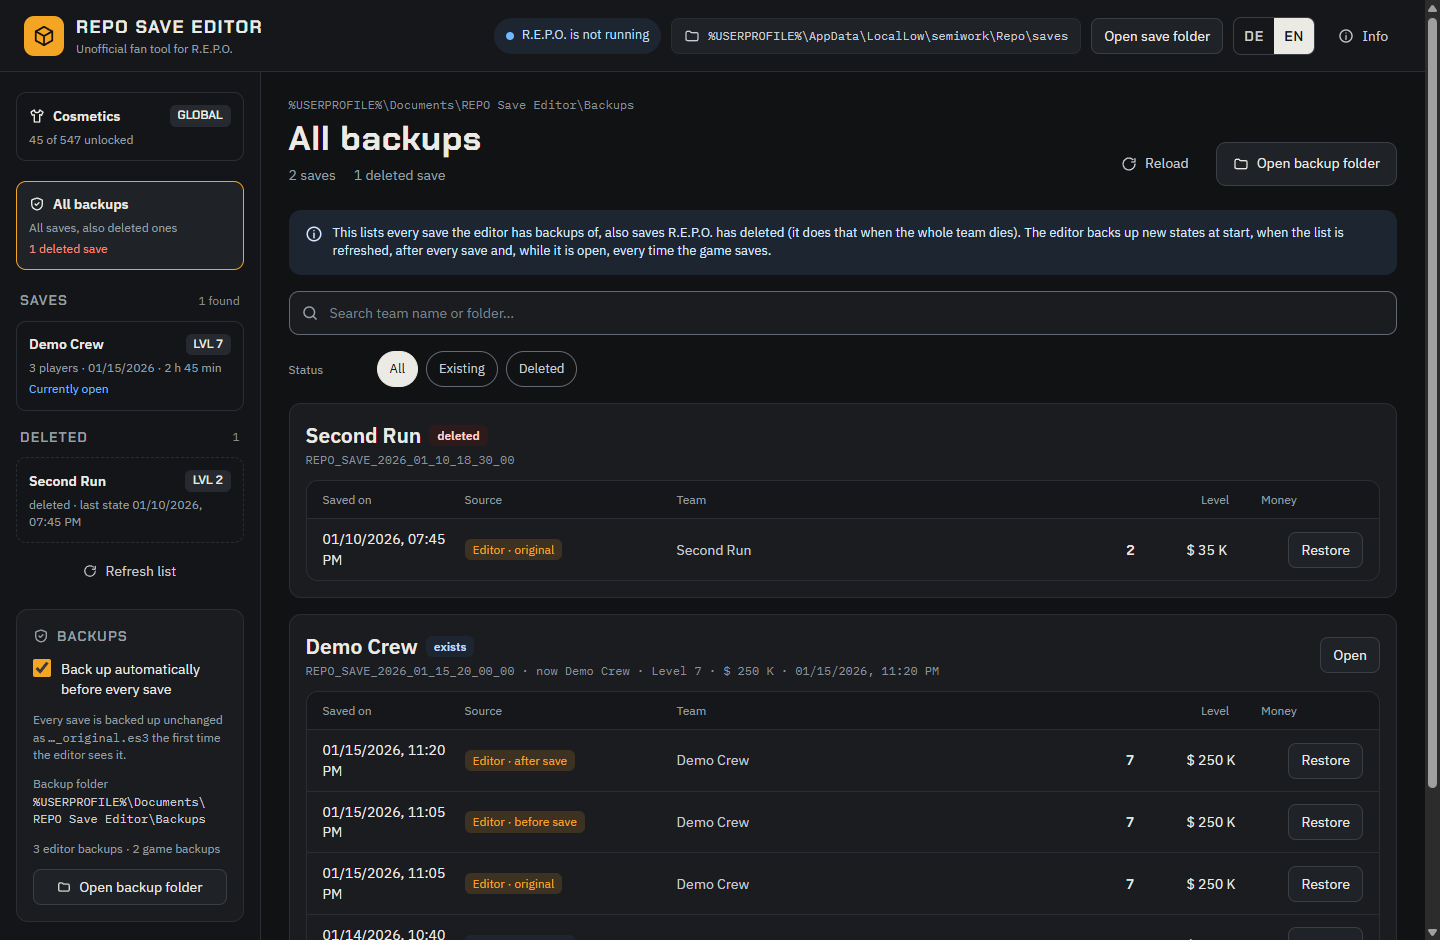
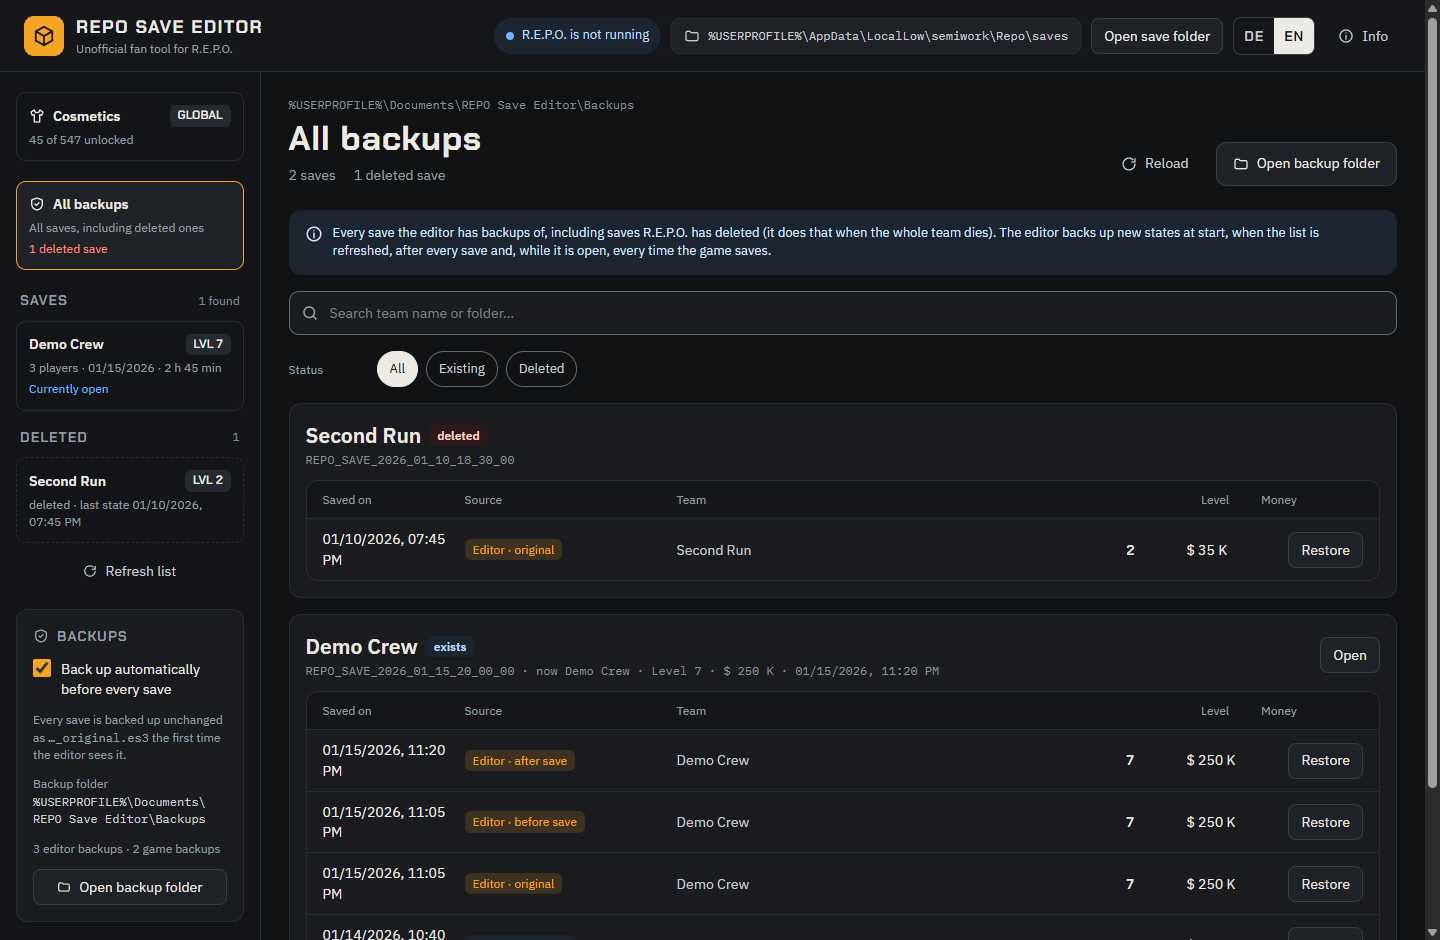
REPO Save Editor 1.1.1
Clearer wording in the new backup texts, mainly in English.

Changed region(s): [[0.25, 0.216, 0.9062, 0.2777], [0.0625, 0.216, 0.125, 0.2468]]

diff --git a/public/index.html b/public/index.html
@@ -405,14 +405,14 @@ const TEXTS = {
   'side.none': ['Keine Spielstände gefunden.', 'No saves found.'],
   'side.refresh': ['Liste aktualisieren', 'Refresh list'],
   'side.allBackups': ['Alle Backups', 'All backups'],
-  'side.allBackupsLine': ['Alle Spielstände, auch gelöschte', 'All saves, also deleted ones'],
+  'side.allBackupsLine': ['Alle Spielstände, auch gelöschte', 'All saves, including deleted ones'],
   'side.deleted': ['Gelöscht', 'Deleted'],
   'side.deletedLine': ['gelöscht · letzter Stand {date}', 'deleted · last state {date}'],
   'n.saveGroup': [['{n} Spielstand', '{n} Spielstände'], ['{n} save', '{n} saves']],
   'n.deletedSave': [['{n} gelöschter Spielstand', '{n} gelöschte Spielstände'], ['{n} deleted save', '{n} deleted saves']],
   'all.title': ['Alle Backups', 'All backups'],
   'all.intro': ['Hier stehen alle Spielstände, von denen der Editor Backups hat, auch solche, die R.E.P.O. gelöscht hat (das passiert, wenn das ganze Team stirbt). Neue Stände sichert der Editor beim Start, beim Aktualisieren der Liste, nach jedem Speichern und, solange er offen ist, jedes Mal, wenn das Spiel speichert.',
-    'This lists every save the editor has backups of, also saves R.E.P.O. has deleted (it does that when the whole team dies). The editor backs up new states at start, when the list is refreshed, after every save and, while it is open, every time the game saves.'],
+    'Every save the editor has backups of, including saves R.E.P.O. has deleted (it does that when the whole team dies). The editor backs up new states at start, when the list is refreshed, after every save and, while it is open, every time the game saves.'],
   'all.search': ['Teamname oder Ordner suchen …', 'Search team name or folder…'],
   'all.searchLabel': ['Spielstände durchsuchen', 'Search saves'],
   'all.showExisting': ['Vorhanden', 'Existing'],
@@ -430,10 +430,10 @@ const TEXTS = {
   'all.open': ['Öffnen', 'Open'],
   'all.unnamed': ['(ohne Namen)', '(no name)'],
   'dlg.undelete.title': ['Gelöschten Spielstand wiederherstellen?', 'Restore the deleted save?'],
-  'dlg.undelete.lead': ['„{team}“ wird mit diesem Stand neu angelegt und erscheint wieder in der Liste und im Spiel.', '"{team}" is created again with this state and shows up in the list and in the game again.'],
+  'dlg.undelete.lead': ['„{team}“ wird mit diesem Stand neu angelegt und erscheint wieder in der Liste und im Spiel.', '"{team}" is created from this backup and shows up in the list and in the game again.'],
   'msg.undeleted': ['Wiederhergestellt: {team}', 'Restored: {team}'],
   'msg.openDeleted': ['R.E.P.O. hat den geöffneten Spielstand gelöscht. Unter „Alle Backups“ lässt er sich wiederherstellen.', 'R.E.P.O. has deleted the open save. You can restore it under "All backups".'],
-  'msg.listSnapshots': [['Liste aktualisiert. Neuer Stand gesichert: {n} Spielstand.', 'Liste aktualisiert. Neuer Stand gesichert: {n} Spielstände.'], ['List refreshed. New state backed up: {n} save.', 'List refreshed. New state backed up: {n} saves.']],
+  'msg.listSnapshots': [['Liste aktualisiert. Neuer Stand gesichert: {n} Spielstand.', 'Liste aktualisiert. Neue Stände gesichert: {n} Spielstände.'], ['List refreshed. New state backed up: {n} save.', 'List refreshed. New states backed up: {n} saves.']],
   'side.opened': ['Geöffnet', 'Currently open'],
   'side.error': ['Fehler: {error}', 'Error: {error}'],
   'side.cosUnlocked': ['{n} von {total} freigeschaltet', '{n} of {total} unlocked'],

diff --git a/lib/messages.js b/lib/messages.js
@@ -88,7 +88,7 @@ const MESSAGES = {
     'input.oneCrown': 'Only one player can have the crown.',
     'input.itemName': 'Invalid item name: {name}',
     'input.json': 'Not valid JSON: {detail}',
-    'save.exists': 'This save still exists. Restore it through its backups, then its current state is backed up first.',
+    'save.exists': 'This save still exists. Restore it from its own backups; its current state is backed up first.',
     'raw.missing': '"{name}" is missing but exists in the save. Expert mode can change values, not remove whole sections.',
     'raw.typeChanged': 'The type of "{name}" changed ({from} → {to}). Expert mode has to keep the structure of the save.',
     'input.unlocks': 'Invalid unlocks.',

diff --git a/README.md b/README.md
@@ -49,7 +49,7 @@ New items appear in the truck when the next level loads. In multiplayer only the
 
 ### When the game deletes a save
 
-R.E.P.O. deletes a save when the whole team dies. The editor keeps its backups: deleted saves show up on the left under **Deleted**, and **All backups** lists every backup of every save with the team name, level and money. **Restore** creates the deleted save again, and it shows up in the game again.
+R.E.P.O. deletes a save when the whole team dies. The editor keeps its backups: deleted saves show up on the left under **Deleted**, and **All backups** lists every backup of every save with the team name, level and money. **Restore** creates the deleted save again, so it shows up in the game.
 
 The editor backs up every new state of a save when it starts, when you refresh the list, after saving and, while it is open, every time the game saves. Keep it open while you play, and every level reached is backed up.
 
